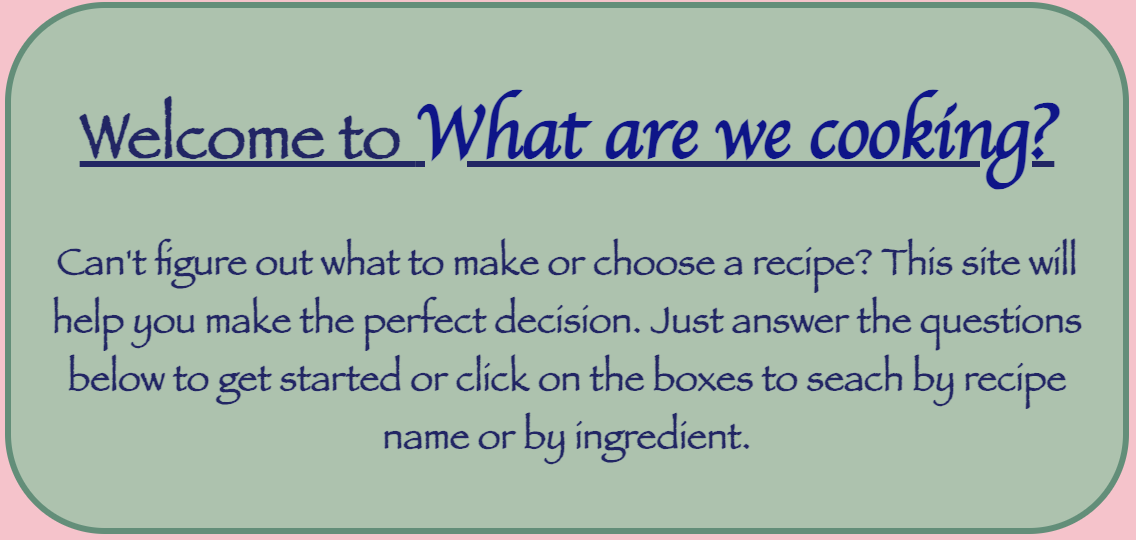
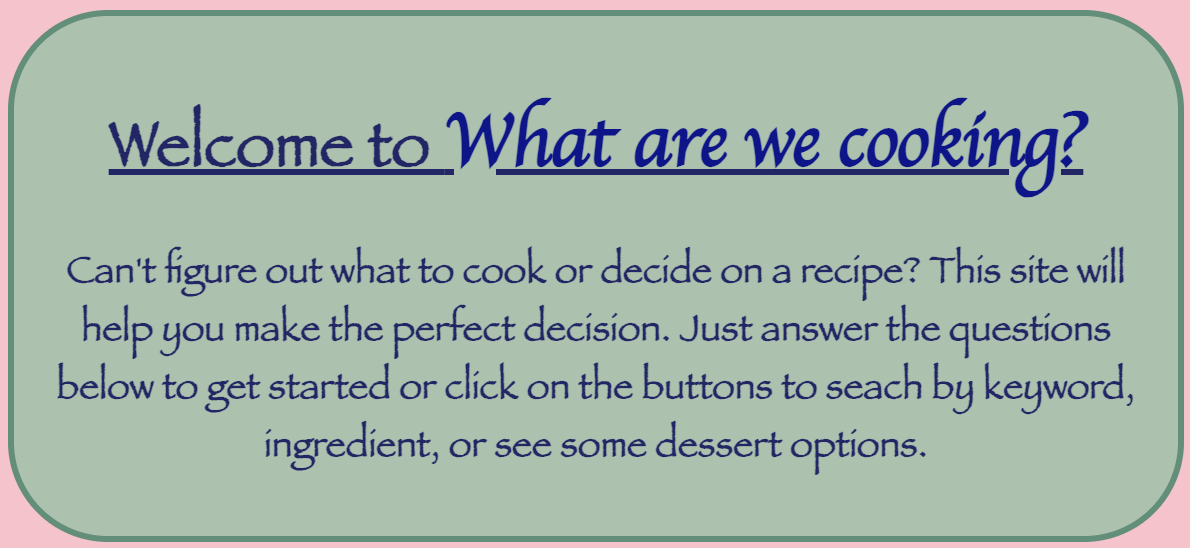
changed the wording in the intro box and updated readme

diff --git a/index.html b/index.html
@@ -13,7 +13,7 @@
 
   <div id='intro'> 
     <h1> Welcome to <span class='bold'>What are we cooking?</span></h1>
-    <h3> Can't figure out what to make or choose a recipe? This site will help you make the perfect decision. Just answer the questions below to get started or click on the boxes to seach by recipe name or by ingredient. 
+    <h3> Can't figure out what to cook or decide on a recipe? This site will help you make the perfect decision. Just answer the questions below to get started or click on the buttons to seach by keyword, ingredient, or see some dessert options. 
     </h3>
   </div>
 
